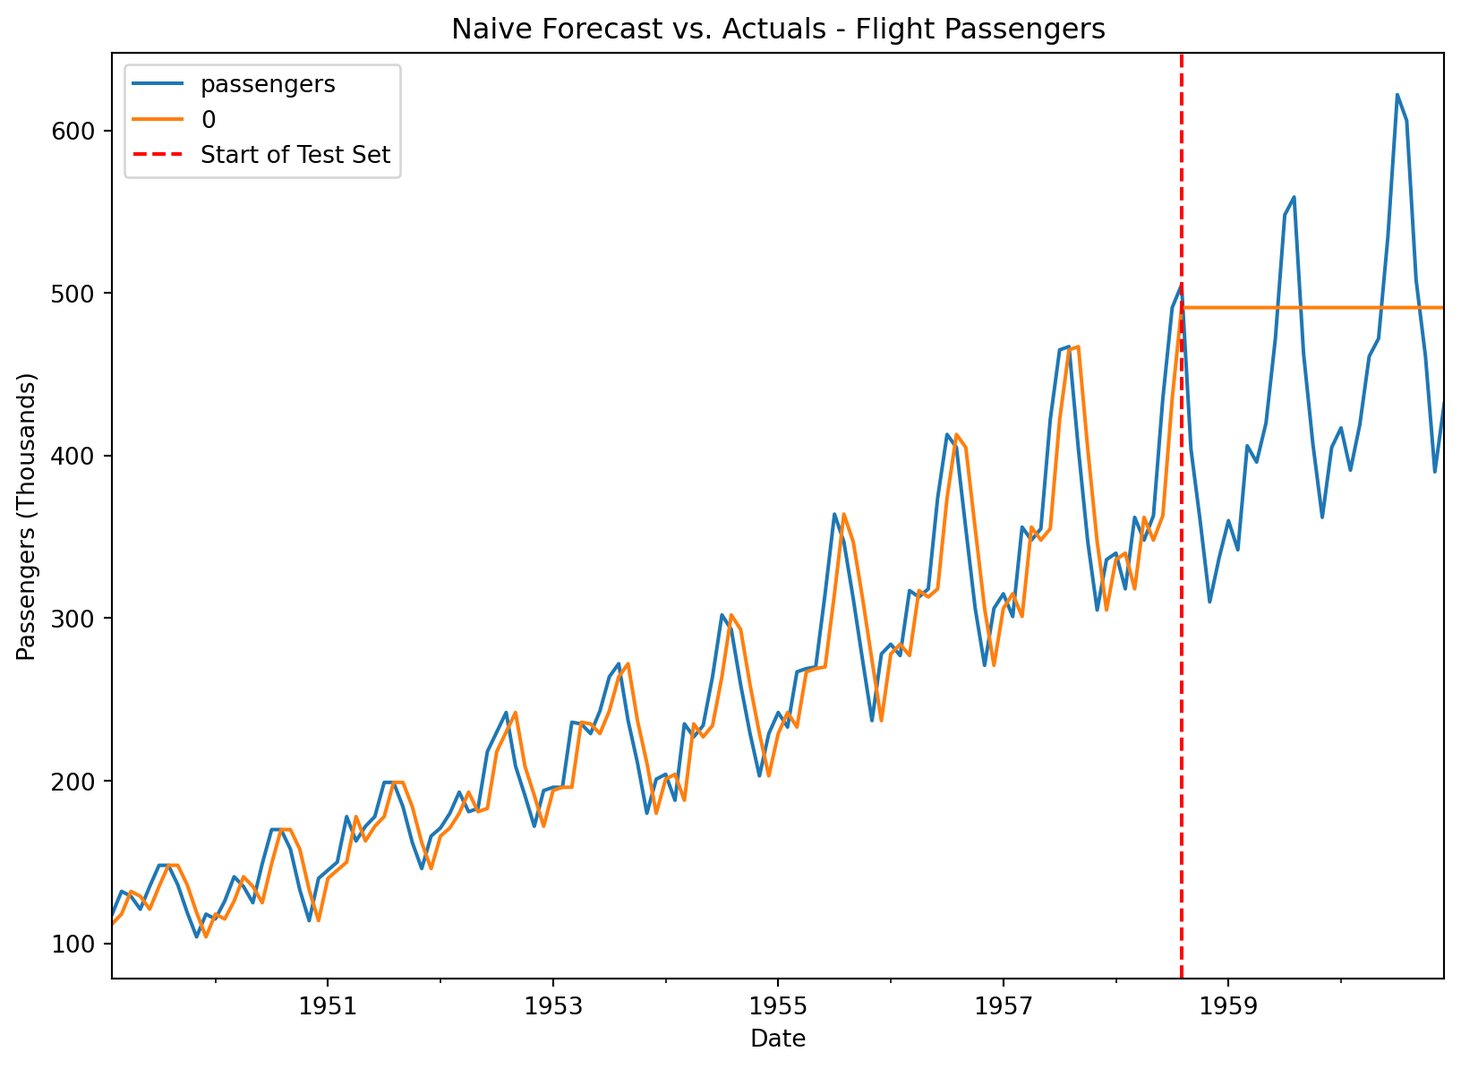
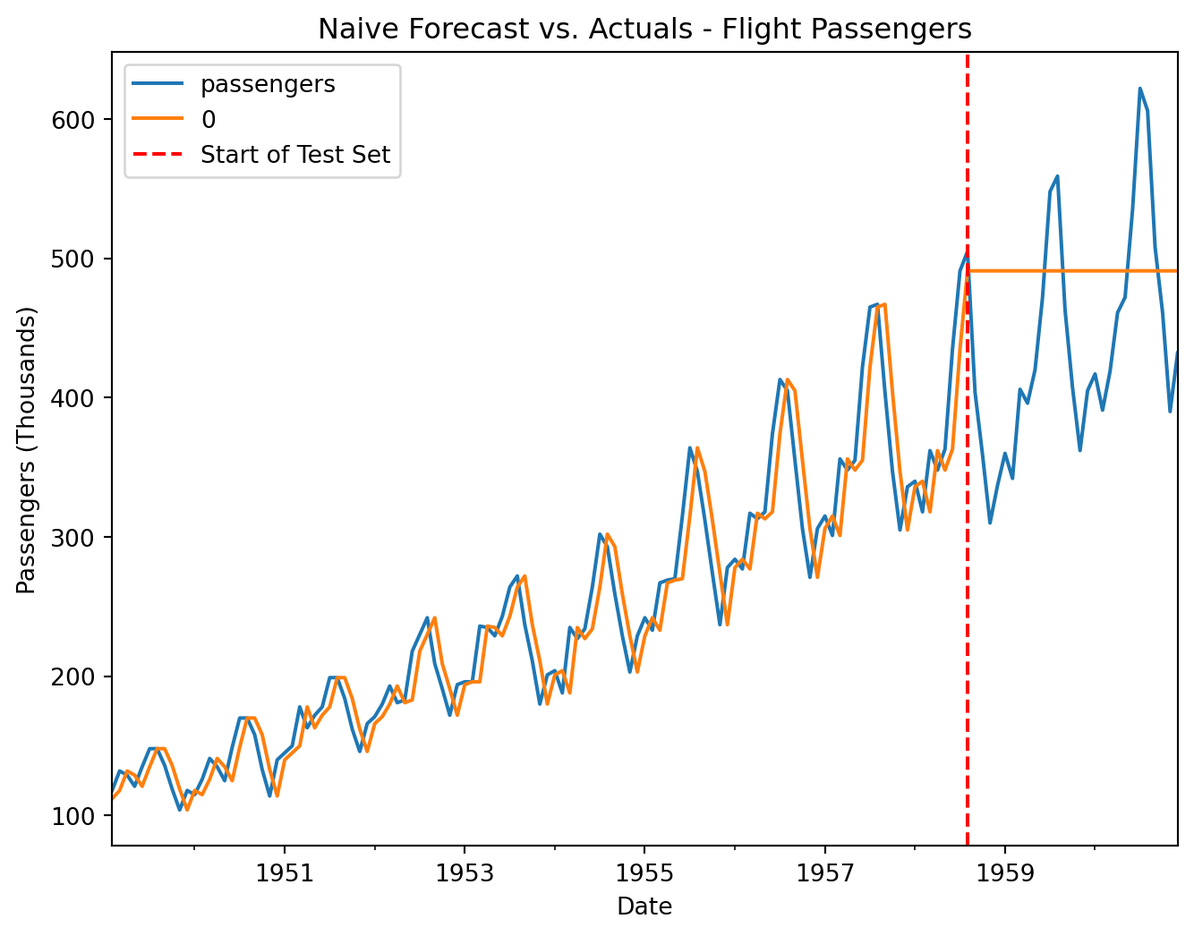
fixed size of visual in naive article

diff --git a/docs/posts/naive-forecasting-basics/index.html b/docs/posts/naive-forecasting-basics/index.html
@@ -244,7 +244,7 @@ gtag('config', 'G-C9HXYCSWSJ', { 'anonymize_ip': true});
 <p>Building a simple naive model in Python is easy. You can use Pandas <code>.shift()</code> method to “slide” your data forward by one instance. This shifted series becomes your fitted values. Future forecasts will simply take on whatever the last value is in your training set.</p>
 <p>More information about Pandas <code>.shift()</code> method is available <a href="https://pandas.pydata.org/docs/reference/api/pandas.DataFrame.shift.html">here</a></p>
 <p>Before we get started, let’s prepare our data. The following code uses the <code>flights</code> data set from Seaborn. For more info about this data set, visit the seaborn documentation located <a href="https://seaborn.pydata.org/tutorial/data_structure.html#data-structures-accepted-by-seaborn">here</a></p>
-<div id="32dfd28e" class="cell" data-execution_count="1">
+<div id="f803d34b" class="cell" data-execution_count="1">
 <div class="code-copy-outer-scaffold"><div class="sourceCode cell-code" id="cb1"><pre class="sourceCode python code-with-copy"><code class="sourceCode python"><span id="cb1-1"><a href="#cb1-1" aria-hidden="true" tabindex="-1"></a><span class="co">#Necessary imports</span></span>
 <span id="cb1-2"><a href="#cb1-2" aria-hidden="true" tabindex="-1"></a><span class="im">import</span> pandas <span class="im">as</span> pd</span>
 <span id="cb1-3"><a href="#cb1-3" aria-hidden="true" tabindex="-1"></a><span class="im">import</span> matplotlib.pyplot <span class="im">as</span> plt</span>
@@ -272,12 +272,12 @@ gtag('config', 'G-C9HXYCSWSJ', { 'anonymize_ip': true});
 </div>
 <p>Now that our data is loaded, we are ready to move forward with getting our fitted values.</p>
 <p>It is important to note, you will introduce missing values into your series for however many rows you shift with the <code>.shift()</code> method. You can drop these rows using Pandas <code>dropna()</code> method.</p>
-<div id="d3a15f51" class="cell" data-execution_count="2">
+<div id="e9ac4eca" class="cell" data-execution_count="2">
 <div class="code-copy-outer-scaffold"><div class="sourceCode cell-code" id="cb2"><pre class="sourceCode python code-with-copy"><code class="sourceCode python"><span id="cb2-1"><a href="#cb2-1" aria-hidden="true" tabindex="-1"></a>fitted_values <span class="op">=</span> y_train.shift(<span class="dv">1</span>) <span class="co">#Shifting by 1 to get our simple naive fitted values</span></span>
 <span id="cb2-2"><a href="#cb2-2" aria-hidden="true" tabindex="-1"></a>fitted_values <span class="op">=</span> fitted_values.dropna() <span class="co">#Dropping the null value introduced by the shift</span></span></code></pre></div><button title="Copy to Clipboard" class="code-copy-button"><i class="bi"></i></button></div>
 </div>
 <p>We have successfully generated our fitted values. Let’s now generate our forecast for the test set period. In this case, the final value of our training set will become the forecast for the entirety of the test set.</p>
-<div id="2d0477c6" class="cell" data-execution_count="3">
+<div id="d5622c5c" class="cell" data-execution_count="3">
 <div class="code-copy-outer-scaffold"><div class="sourceCode cell-code" id="cb3"><pre class="sourceCode python code-with-copy"><code class="sourceCode python"><span id="cb3-1"><a href="#cb3-1" aria-hidden="true" tabindex="-1"></a>future_forecast_value <span class="op">=</span> y_train.iloc[<span class="op">-</span><span class="dv">1</span>] <span class="co">#Grab the last value of our train set</span></span>
 <span id="cb3-2"><a href="#cb3-2" aria-hidden="true" tabindex="-1"></a></span>
 <span id="cb3-3"><a href="#cb3-3" aria-hidden="true" tabindex="-1"></a>forecasts <span class="op">=</span> pd.Series(future_forecast_value, index<span class="op">=</span>y_test.index) <span class="co">#Create a series with the same index as our test set that uses that one future value</span></span>
@@ -294,14 +294,14 @@ dtype: int64</code></pre>
 </div>
 </div>
 <p>As you can see, our naive forecast model produces a constant value of 491. Let’s use a visualization to get an idea for how well our naive forecast captures this time series.</p>
-<div id="7e0cd475" class="cell" data-execution_count="4">
+<div id="52e9e23b" class="cell" data-execution_count="4">
 <div class="code-copy-outer-scaffold"><div class="sourceCode cell-code" id="cb5"><pre class="sourceCode python code-with-copy"><code class="sourceCode python"><span id="cb5-1"><a href="#cb5-1" aria-hidden="true" tabindex="-1"></a><span class="co">#Combining fitted values and forecasts for simpler viewing</span></span>
 <span id="cb5-2"><a href="#cb5-2" aria-hidden="true" tabindex="-1"></a>combined_fitted_and_forecasts <span class="op">=</span> pd.concat([fitted_values, forecasts], axis<span class="op">=</span><span class="dv">0</span>)</span>
 <span id="cb5-3"><a href="#cb5-3" aria-hidden="true" tabindex="-1"></a></span>
 <span id="cb5-4"><a href="#cb5-4" aria-hidden="true" tabindex="-1"></a><span class="co">#Combining with y for visualization purposes</span></span>
 <span id="cb5-5"><a href="#cb5-5" aria-hidden="true" tabindex="-1"></a>combined_forecasts_actuals <span class="op">=</span> pd.concat([y, combined_fitted_and_forecasts], axis<span class="op">=</span><span class="dv">1</span>).dropna()</span>
 <span id="cb5-6"><a href="#cb5-6" aria-hidden="true" tabindex="-1"></a></span>
-<span id="cb5-7"><a href="#cb5-7" aria-hidden="true" tabindex="-1"></a>combined_forecasts_actuals.plot(figsize<span class="op">=</span>(<span class="dv">10</span>, <span class="dv">7</span>))</span>
+<span id="cb5-7"><a href="#cb5-7" aria-hidden="true" tabindex="-1"></a>combined_forecasts_actuals.plot(figsize<span class="op">=</span>(<span class="dv">8</span>, <span class="dv">6</span>))</span>
 <span id="cb5-8"><a href="#cb5-8" aria-hidden="true" tabindex="-1"></a>plt.axvline(x<span class="op">=</span>y_test.index[<span class="dv">0</span>], c<span class="op">=</span><span class="st">'red'</span>, linestyle<span class="op">=</span><span class="st">'--'</span>, label<span class="op">=</span><span class="st">'Start of Test Set'</span>)</span>
 <span id="cb5-9"><a href="#cb5-9" aria-hidden="true" tabindex="-1"></a>plt.title(<span class="st">'Naive Forecast vs. Actuals - Flight Passengers'</span>)</span>
 <span id="cb5-10"><a href="#cb5-10" aria-hidden="true" tabindex="-1"></a>plt.ylabel(<span class="st">'Passengers (Thousands)'</span>)</span>
@@ -311,7 +311,7 @@ dtype: int64</code></pre>
 <div class="cell-output cell-output-display">
 <div>
 <figure class="figure">
-<p><img src="index_files/figure-html/cell-5-output-1.png" width="816" height="597" class="figure-img"></p>
+<p><img src="index_files/figure-html/cell-5-output-1.png" width="667" height="523" class="figure-img"></p>
 </figure>
 </div>
 </div>

diff --git a/docs/posts/time-series-train-test-spit/index.html b/docs/posts/time-series-train-test-spit/index.html
@@ -241,14 +241,14 @@ gtag('config', 'G-C9HXYCSWSJ', { 'anonymize_ip': true});
 <p>In the following code cells, we will walk through a simple example of a train-test split in Python.</p>
 <p>We will use sklearn’s <code>train_test_split</code> function to achieve this. For more information about this function, visit sklearn’s official documentation <a href="https://scikit-learn.org/stable/modules/generated/sklearn.model_selection.train_test_split.html">here</a>.</p>
 <p>First, we will import the necessary libraries and then we will load the flights data set from seaborn.</p>
-<div id="6fad548c" class="cell" data-execution_count="1">
+<div id="6814ac46" class="cell" data-execution_count="1">
 <div class="code-copy-outer-scaffold"><div class="sourceCode cell-code" id="cb1"><pre class="sourceCode python code-with-copy"><code class="sourceCode python"><span id="cb1-1"><a href="#cb1-1" aria-hidden="true" tabindex="-1"></a><span class="co">#Necessary imports</span></span>
 <span id="cb1-2"><a href="#cb1-2" aria-hidden="true" tabindex="-1"></a><span class="im">import</span> pandas <span class="im">as</span> pd</span>
 <span id="cb1-3"><a href="#cb1-3" aria-hidden="true" tabindex="-1"></a><span class="im">import</span> seaborn <span class="im">as</span> sns</span>
 <span id="cb1-4"><a href="#cb1-4" aria-hidden="true" tabindex="-1"></a><span class="im">from</span> sklearn.model_selection <span class="im">import</span> train_test_split <span class="co">#This is the train-test split function we will use</span></span></code></pre></div><button title="Copy to Clipboard" class="code-copy-button"><i class="bi"></i></button></div>
 </div>
 <p>Next, we will load the flights data set from seaborn. For more info about this data set, visit <a href="https://seaborn.pydata.org/tutorial/data_structure.html#data-structures-accepted-by-seaborn">this seaborn documentation</a>. We will also set up the time index.</p>
-<div id="68f33a85" class="cell" data-execution_count="2">
+<div id="76e61233" class="cell" data-execution_count="2">
 <div class="code-copy-outer-scaffold"><div class="sourceCode cell-code" id="cb2"><pre class="sourceCode python code-with-copy"><code class="sourceCode python"><span id="cb2-1"><a href="#cb2-1" aria-hidden="true" tabindex="-1"></a><span class="co">#Load flights data into 'flights' dataframe</span></span>
 <span id="cb2-2"><a href="#cb2-2" aria-hidden="true" tabindex="-1"></a>flights <span class="op">=</span> sns.load_dataset(<span class="st">"flights"</span>)</span>
 <span id="cb2-3"><a href="#cb2-3" aria-hidden="true" tabindex="-1"></a></span>
@@ -268,7 +268,7 @@ gtag('config', 'G-C9HXYCSWSJ', { 'anonymize_ip': true});
 <p>Now, we have our “y”, which is the full time series data we will work with. We are ready to split it into train and test sets.</p>
 <p>By default, sklearn’s <code>train_test_split</code> function shuffles your data. This is what we want to avoid, so we will <strong>set the <code>shuffle</code> parameter to False</strong> to override the default behavior.</p>
 <p>We will set our training set size to use 80% of our data. The remaining 20% will be reserved as a test set.</p>
-<div id="6236a3a0" class="cell" data-execution_count="3">
+<div id="a248efc0" class="cell" data-execution_count="3">
 <div class="code-copy-outer-scaffold"><div class="sourceCode cell-code" id="cb3"><pre class="sourceCode python code-with-copy"><code class="sourceCode python"><span id="cb3-1"><a href="#cb3-1" aria-hidden="true" tabindex="-1"></a>y_train, y_test <span class="op">=</span> train_test_split(y, shuffle<span class="op">=</span><span class="va">False</span>, train_size<span class="op">=</span><span class="fl">.8</span>) <span class="co">#Notice, the "shuffle" parameter is set to False here. It defaults to true.</span></span>
 <span id="cb3-2"><a href="#cb3-2" aria-hidden="true" tabindex="-1"></a></span>
 <span id="cb3-3"><a href="#cb3-3" aria-hidden="true" tabindex="-1"></a><span class="co">#Let's check the size of our train and test sets as a gut check. </span></span>
@@ -280,7 +280,7 @@ Test Set Size: 29 rows</code></pre>
 </div>
 </div>
 <p>We can confirm that the start and end dates of our train and test set are still in chronological order.</p>
-<div id="bef51fcf" class="cell" data-execution_count="4">
+<div id="696ff1e6" class="cell" data-execution_count="4">
 <div class="code-copy-outer-scaffold"><div class="sourceCode cell-code" id="cb5"><pre class="sourceCode python code-with-copy"><code class="sourceCode python"><span id="cb5-1"><a href="#cb5-1" aria-hidden="true" tabindex="-1"></a><span class="bu">print</span>(<span class="st">'Train Start:'</span>, y_train.index[<span class="dv">0</span>])</span>
 <span id="cb5-2"><a href="#cb5-2" aria-hidden="true" tabindex="-1"></a><span class="bu">print</span>(<span class="st">'Train End:'</span>, y_train.index[<span class="op">-</span><span class="dv">1</span>])</span>
 <span id="cb5-3"><a href="#cb5-3" aria-hidden="true" tabindex="-1"></a><span class="bu">print</span>(<span class="st">'Test Start:'</span>, y_test.index[<span class="dv">0</span>])</span>

diff --git a/docs/posts/differencing/index.html b/docs/posts/differencing/index.html
@@ -243,7 +243,7 @@ gtag('config', 'G-C9HXYCSWSJ', { 'anonymize_ip': true});
 <h1>Differencing in Python</h1>
 <p>Consider the following example of the Google daily opening stock price from 2010-2013.</p>
 <p>If we just plot the daily stock price in its original form, we will see strong evidence of non-stationarity. The data set has a clear upward trend, which would indicate a mean that is not constant across the time series.</p>
-<div id="786cab98" class="cell" data-execution_count="1">
+<div id="5150ca3d" class="cell" data-execution_count="1">
 <div class="code-copy-outer-scaffold"><div class="sourceCode cell-code" id="cb1"><pre class="sourceCode python code-with-copy"><code class="sourceCode python"><span id="cb1-1"><a href="#cb1-1" aria-hidden="true" tabindex="-1"></a><span class="co">#Necessary imports</span></span>
 <span id="cb1-2"><a href="#cb1-2" aria-hidden="true" tabindex="-1"></a><span class="im">import</span> pandas <span class="im">as</span> pd</span>
 <span id="cb1-3"><a href="#cb1-3" aria-hidden="true" tabindex="-1"></a><span class="im">import</span> matplotlib.pyplot <span class="im">as</span> plt</span>
@@ -278,7 +278,7 @@ gtag('config', 'G-C9HXYCSWSJ', { 'anonymize_ip': true});
 <p>Now, let’s use Pandas <code>.diff()</code> method to difference our data set. For more information about the <code>.diff()</code> method, check out the Pandas documentation on the subject <a href="https://pandas.pydata.org/docs/reference/api/pandas.DataFrame.diff.html">here</a>.</p>
 <p>In the case of this daily data, without any clear seasonality, we will just difference by 1. This means we are taking the change in the Google stock price from day to day. We will then plot this differenced data to see if we were able to successfully make our time series stationary.</p>
 <p>Note, when you use the <code>.diff()</code> method, you will introduce at least 1 null value into your time series. This is due to the first instance not having a preceding instance to compare against. Therefore, you will typically want to use <code>.dropna()</code> along with this method to remove the null value.</p>
-<div id="9ae0d934" class="cell" data-execution_count="2">
+<div id="89d9cba1" class="cell" data-execution_count="2">
 <div class="code-copy-outer-scaffold"><div class="sourceCode cell-code" id="cb2"><pre class="sourceCode python code-with-copy"><code class="sourceCode python"><span id="cb2-1"><a href="#cb2-1" aria-hidden="true" tabindex="-1"></a>y_diff <span class="op">=</span> y.diff(<span class="dv">1</span>).dropna() <span class="co">#Differencing by 1, dropping the resulting null value</span></span>
 <span id="cb2-2"><a href="#cb2-2" aria-hidden="true" tabindex="-1"></a></span>
 <span id="cb2-3"><a href="#cb2-3" aria-hidden="true" tabindex="-1"></a>y_diff.plot(figsize<span class="op">=</span>(<span class="dv">8</span>, <span class="dv">6</span>), legend<span class="op">=</span><span class="va">None</span>)</span>
@@ -295,7 +295,7 @@ gtag('config', 'G-C9HXYCSWSJ', { 'anonymize_ip': true});
 </div>
 <p>In this plot of the differenced Google stock price data, we should immediately note that the trend that was so apparent in the previous plot (the undifferenced data) has disappeared. In addition, we see what appears to be fairly consistent mean and variance across this differenced data set. All of this gives us reason to believe we now have a stationary time series.</p>
 <p>To give us some additional confidence, let’s run our data through the Augmented Dickey-Fuller test. We will compare the p-values before and after differencing to see how we did.</p>
-<div id="8683d8d3" class="cell" data-execution_count="3">
+<div id="57b60b62" class="cell" data-execution_count="3">
 <div class="code-copy-outer-scaffold"><div class="sourceCode cell-code" id="cb3"><pre class="sourceCode python code-with-copy"><code class="sourceCode python"><span id="cb3-1"><a href="#cb3-1" aria-hidden="true" tabindex="-1"></a><span class="im">from</span> statsmodels.tsa.stattools <span class="im">import</span> adfuller</span>
 <span id="cb3-2"><a href="#cb3-2" aria-hidden="true" tabindex="-1"></a></span>
 <span id="cb3-3"><a href="#cb3-3" aria-hidden="true" tabindex="-1"></a>adfuller_results_nondiff <span class="op">=</span> adfuller(y)</span>

diff --git a/docs/posts/additive-vs-multiplicative-seasonality/index.html b/docs/posts/additive-vs-multiplicative-seasonality/index.html
@@ -241,7 +241,7 @@ gtag('config', 'G-C9HXYCSWSJ', { 'anonymize_ip': true});
 <h2 class="anchored" data-anchor-id="using-visualization-to-determine-seasonality-type">Using Visualization to Determine Seasonality Type</h2>
 <p>Many times, a simple line plot will be enough to determine whether our time series has additive or multiplicative seasonality.</p>
 <p>We will use the flights data set from the <code>seaborn</code> package in Python as an example.</p>
-<div id="b25f8f24" class="cell" data-execution_count="1">
+<div id="0d6b9a9c" class="cell" data-execution_count="1">
 <div class="code-copy-outer-scaffold"><div class="sourceCode cell-code" id="cb1"><pre class="sourceCode python code-with-copy"><code class="sourceCode python"><span id="cb1-1"><a href="#cb1-1" aria-hidden="true" tabindex="-1"></a><span class="co">#Necessary imports</span></span>
 <span id="cb1-2"><a href="#cb1-2" aria-hidden="true" tabindex="-1"></a><span class="im">import</span> pandas <span class="im">as</span> pd</span>
 <span id="cb1-3"><a href="#cb1-3" aria-hidden="true" tabindex="-1"></a><span class="im">import</span> matplotlib.pyplot <span class="im">as</span> plt</span>
@@ -282,7 +282,7 @@ gtag('config', 'G-C9HXYCSWSJ', { 'anonymize_ip': true});
 <p>If, on the other hand, the fluctuations stayed fairly consistent - even as the underlying trend increased - we would have evidence of additive seasonality.</p>
 <p>What would happen if we assumed incorrectly that our data had additive seasonality?</p>
 <p>Well, let’s use statsmodels <code>seasonal_decompose</code> function, with the <code>model</code> parameter set to “additive” instead of “multiplicative” and see what happens.</p>
-<div id="0b3003a0" class="cell" data-execution_count="2">
+<div id="2b35067e" class="cell" data-execution_count="2">
 <div class="code-copy-outer-scaffold"><div class="sourceCode cell-code" id="cb2"><pre class="sourceCode python code-with-copy"><code class="sourceCode python"><span id="cb2-1"><a href="#cb2-1" aria-hidden="true" tabindex="-1"></a><span class="im">from</span> statsmodels.tsa.seasonal <span class="im">import</span> seasonal_decompose</span>
 <span id="cb2-2"><a href="#cb2-2" aria-hidden="true" tabindex="-1"></a></span>
 <span id="cb2-3"><a href="#cb2-3" aria-hidden="true" tabindex="-1"></a>flights_decomp <span class="op">=</span> seasonal_decompose(</span>
@@ -303,7 +303,7 @@ gtag('config', 'G-C9HXYCSWSJ', { 'anonymize_ip': true});
 <p>Look carefully at the “Resid” plot (the 4th plot). This plot shows the remaining noise in the data once the trend and seasonal components have been accounted for. Notice how the residuals flare out at the ends, rather than staying consistent and tightly clustered around 0.</p>
 <p>This should be a red flag. There is something in our decomposition that is not properly recognizing the underlying structure of the time series.</p>
 <p>Let’s switch the <code>model</code> parameter to “multiplicative” and see whether our residual plot looks any better.</p>
-<div id="a02f3787" class="cell" data-execution_count="3">
+<div id="bef92dcd" class="cell" data-execution_count="3">
 <div class="code-copy-outer-scaffold"><div class="sourceCode cell-code" id="cb3"><pre class="sourceCode python code-with-copy"><code class="sourceCode python"><span id="cb3-1"><a href="#cb3-1" aria-hidden="true" tabindex="-1"></a><span class="im">from</span> statsmodels.tsa.seasonal <span class="im">import</span> seasonal_decompose</span>
 <span id="cb3-2"><a href="#cb3-2" aria-hidden="true" tabindex="-1"></a></span>
 <span id="cb3-3"><a href="#cb3-3" aria-hidden="true" tabindex="-1"></a>flights_decomp <span class="op">=</span> seasonal_decompose(</span>

diff --git a/docs/posts/time-series-structures/index.html b/docs/posts/time-series-structures/index.html
@@ -274,7 +274,7 @@ gtag('config', 'G-C9HXYCSWSJ', { 'anonymize_ip': true});
 <p>Time series decomposition is the process of taking a time series data set and splitting it apart into its different structures. Using the <code>flights</code> data set from the seaborn package in Python, let’s walk through a simple example of time series decomposition. To accomplish this, we’ll rely on statsmodels’ <code>seasonal_decompose</code> function.</p>
 <p>Note, the model parameter is very important. If seasonality remains at a consistent level, you can use “additive”. If the seasonal fluctuations become more extreme as the time series increases, you will want to use “multiplicative”. We will explore this further in another article. For more information check out the statsmodels documentation here: https://www.statsmodels.org/stable/generated/statsmodels.tsa.seasonal.seasonal_decompose.html</p>
 <p>For more complex time series or time series with extreme outliers, you should consider using STL decomposition. More information is available here: https://www.statsmodels.org/devel/generated/statsmodels.tsa.seasonal.STL.html</p>
-<div id="547399b3" class="cell" data-execution_count="1">
+<div id="f406253a" class="cell" data-execution_count="1">
 <div class="code-copy-outer-scaffold"><div class="sourceCode cell-code" id="cb1"><pre class="sourceCode python code-with-copy"><code class="sourceCode python"><span id="cb1-1"><a href="#cb1-1" aria-hidden="true" tabindex="-1"></a><span class="co">#Necessary imports</span></span>
 <span id="cb1-2"><a href="#cb1-2" aria-hidden="true" tabindex="-1"></a><span class="im">import</span> pandas <span class="im">as</span> pd</span>
 <span id="cb1-3"><a href="#cb1-3" aria-hidden="true" tabindex="-1"></a><span class="im">import</span> matplotlib.pyplot <span class="im">as</span> plt</span>

diff --git a/docs/posts/understanding-stationarity/index.html b/docs/posts/understanding-stationarity/index.html
@@ -261,7 +261,7 @@ gtag('config', 'G-C9HXYCSWSJ', { 'anonymize_ip': true});
 <p>Null Hypothesis: Has Unit Root: Time Series is Non-Stationary Alternate Hypothesis: Does not Have Unit Root: Time Series is Stationary</p>
 <p>A p-value of below .05 is typically interpreted as strong evidence to reject the null hypothesis (i.e., your time series is stationary), while a p-value of above .05 is interpreted as insufficient evidence to reject the null hypothesis (i.e., your time series is nonstationary). Note, this test, though helpful, is not a 100% guarantee. It should always be paired with visual exploration prior to model creation and additional testing of the model’s performance.</p>
 <p>The statsmodels <code>adfuller</code> function performs this test for us. Let’s run our electricity production data from earlier in the article through the adfuller test as an example.</p>
-<div id="20420a9c" class="cell" data-execution_count="1">
+<div id="828ffa5c" class="cell" data-execution_count="1">
 <div class="code-copy-outer-scaffold"><div class="sourceCode cell-code" id="cb1"><pre class="sourceCode python code-with-copy"><code class="sourceCode python"><span id="cb1-1"><a href="#cb1-1" aria-hidden="true" tabindex="-1"></a><span class="im">import</span> pandas <span class="im">as</span> pd</span>
 <span id="cb1-2"><a href="#cb1-2" aria-hidden="true" tabindex="-1"></a><span class="im">from</span> statsmodels.tsa.stattools <span class="im">import</span> adfuller</span>
 <span id="cb1-3"><a href="#cb1-3" aria-hidden="true" tabindex="-1"></a></span>

diff --git a/docs/posts/intro-to-time-series/index.html b/docs/posts/intro-to-time-series/index.html
@@ -235,7 +235,7 @@ gtag('config', 'G-C9HXYCSWSJ', { 'anonymize_ip': true});
 <section id="what-is-a-time-series" class="level2">
 <h2 class="anchored" data-anchor-id="what-is-a-time-series">What is a Time Series?</h2>
 <p>A time series is a data set in which the observations, the instances, or the rows, are in some type of sequential order. Consider the following example from a data set that includes average march temperatures for the state of Pennsylvania from 1895-2026:</p>
-<div id="654a7d44" class="cell" data-execution_count="1">
+<div id="8bddcfef" class="cell" data-execution_count="1">
 <div class="code-copy-outer-scaffold"><div class="sourceCode cell-code" id="cb1"><pre class="sourceCode python code-with-copy"><code class="sourceCode python"><span id="cb1-1"><a href="#cb1-1" aria-hidden="true" tabindex="-1"></a><span class="im">import</span> pandas <span class="im">as</span> pd</span>
 <span id="cb1-2"><a href="#cb1-2" aria-hidden="true" tabindex="-1"></a><span class="im">import</span> seaborn <span class="im">as</span> sns</span>
 <span id="cb1-3"><a href="#cb1-3" aria-hidden="true" tabindex="-1"></a></span>

diff --git a/docs/index.html b/docs/index.html
@@ -274,7 +274,7 @@ window.Quarto = {
 <p>Browse the latest articles below.</p>
 <div id="listing-latest-posts" class="quarto-listing quarto-listing-container-default">
 <div class="list quarto-listing-default">
[2 lines of base64/hex data omitted]
 <div class="body">
 <h3 class="no-anchor listing-title">
 <a href="./posts/naive-forecasting-basics/index.html" class="no-external">Naive Forecasting Basics</a>

diff --git a/docs/archive.html b/docs/archive.html
@@ -253,7 +253,7 @@ window.Quarto = {
     </div>
 </div>
 <div class="list quarto-listing-default">
[2 lines of base64/hex data omitted]
 <div class="body">
 <h3 class="no-anchor listing-title">
 <a href="./posts/naive-forecasting-basics/index.html" class="no-external">Naive Forecasting Basics</a>
